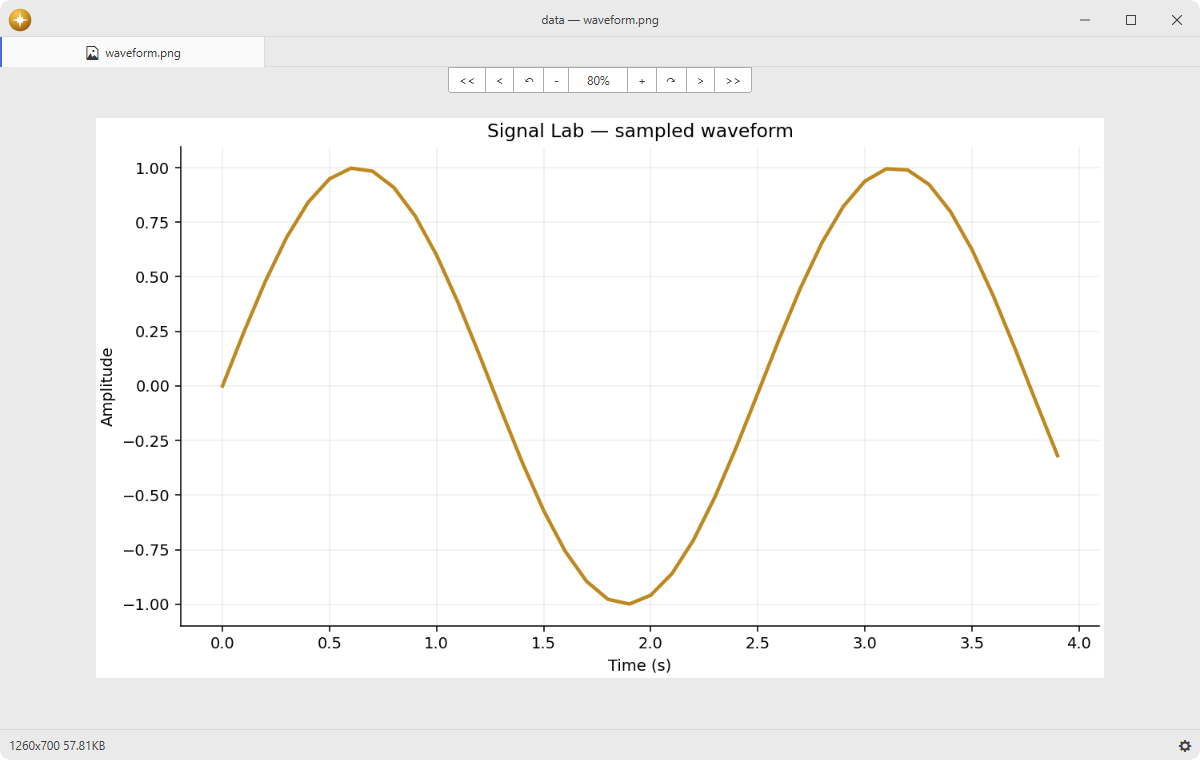
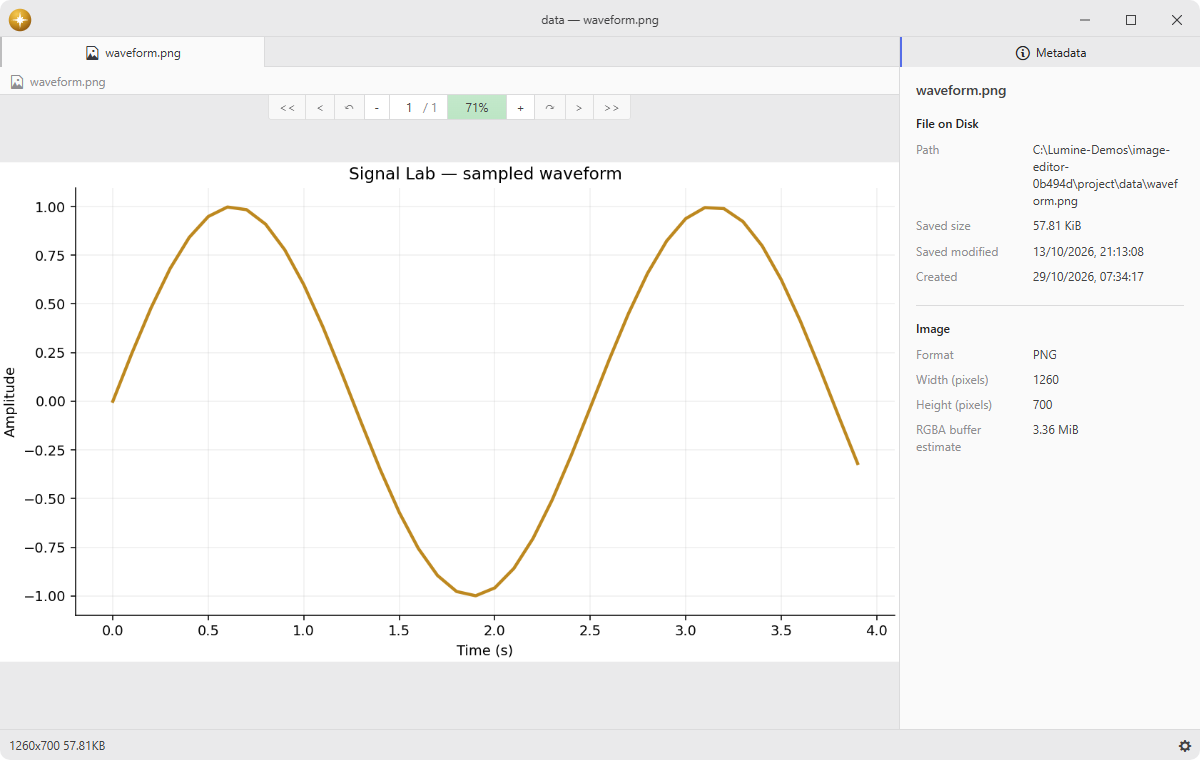
Refresh the image metadata demonstration

diff --git a/README.md b/README.md
@@ -17,13 +17,13 @@ A feature-rich image viewer with support for cropping, rotation, color adjustmen
 - **Navigation panel**: browse folder images via [navigation-panel](https://github.com/lumine-code/navigation-panel).
 - **API for packages**: other packages can open images from data URLs without saving to disk. Used by [jupyter-repl](https://github.com/lumine-code/jupyter-repl) to display plot outputs.
 
+![Inspect a plotted waveform and its image metadata.](.github/demo.png)
+
 Opening another image in a pending tab reuses the image editor and its view. The next image is decoded before replacing the current document, and editing an image keeps its tab open. Folder navigation uses the same loading path and asks before discarding unsaved changes. The folder picker uses the selected file's default opener and also offers other opening actions.
 
 Folder navigation uses the tree-view directory service, which follows its sorting and file visibility settings even with no project folder open. The service uses the default sorting when those settings are unavailable.
 
 Use Open… in the tree view to choose Image Editor for an SVG file; SVG files open in Text Editor by default.
-
-![Inspect a plotted waveform in the image editor.](.github/demo.png)
 
 ## Installation
 
